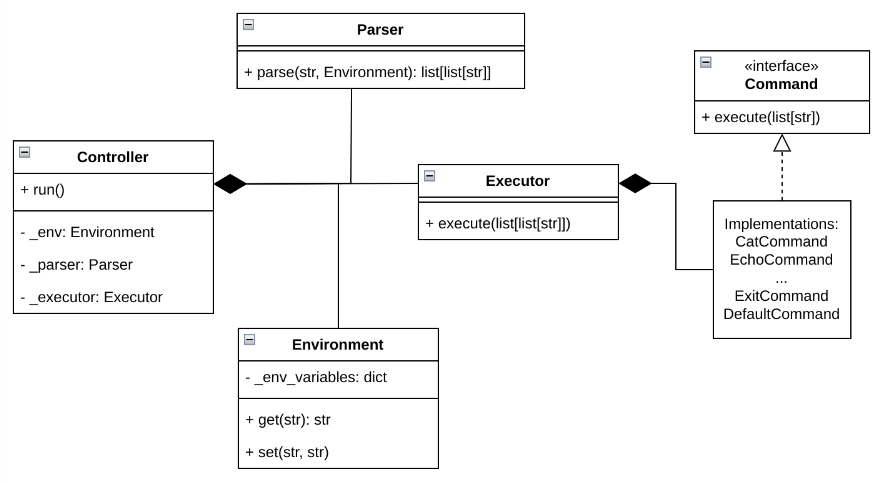
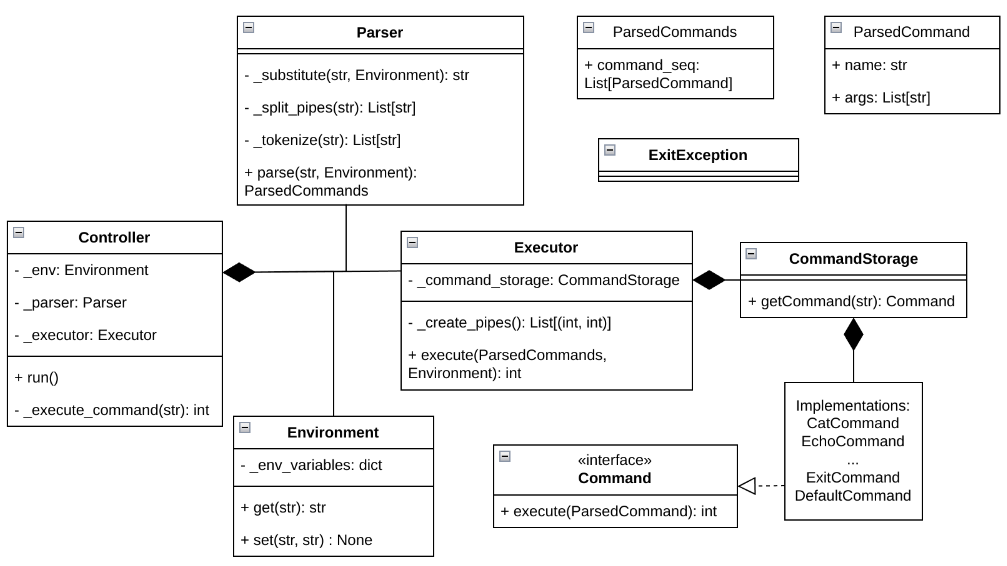
Fix architecture

Changed region(s): [[0.0, 0.0, 1.0, 0.9938]]

diff --git a/docs/architecture.md b/docs/architecture.md
@@ -2,24 +2,137 @@
 
 ![Архитектура](./images/architecture.png)
 
-`Controller` управляет основным циклом интерпретатора. Он запускает процесс обработки ввода, вызывает парсинг команд и их выполнение.
 
-`Parser` разбирает входную строку на токены с помощью `shlex`, учитывая:
+### **Controller**
 
-- Кавычки (одинарные/двойные) для группировки аргументов.
+-   **Точка входа**:
+    
+    -   `run()`: Бесконечный цикл:
+        
+        1.  Чтение ввода пользователя.
+            
+        2.  **Парсинг**  через  `Parser.parse()`.
+            
+        3.  **Исполнение**  через  `Executor.execute()`.
+            
+    -   **Завершение**: При получении команды  `exit`  → прерывание цикла.
+        
 
-- Подстановку переменных окружения через `$` (например, `$FILE` заменяется на значение из `Environment`).
+----------
 
-- Пайплайны (`|`), разделяя команды на последовательные этапы.
+### **Parser**
 
-- Результат парсинга — список списков строк, где каждый список строк соответствует команде и ее аргументам (например, `[[ "echo", "arg1" ], [ "wc" ]]` для пайплайна).
+-   **Этапы парсинга**:
 
-`Executor` получает отпарсенные команды и выполняет их:
+    1. **Подстановка переменных до токенизации**:
+            
+        -   Замена  `$VAR`  на значение из  `Environment.get("VAR")`  (например,  `$FILE`  →  `example.txt`).
 
-- Для встроенных команд (`cat`, `echo`, `wc`, `pwd`, `exit`) используются реализации интерфейса `Command`.
+    1.  **Разделение на подкоманды**  по  `|`  (например,  `cat $FILE | wc`  →  `["cat $FILE", "wc"]`).
 
-- Для внешних команд (`DefaultCommand`) создается отдельный процесс через `subprocess`.
+    2.  **Обработка каждой подкоманды**:
+                
+        -   Токенизация через  `shlex.split()`
 
-- Для пайплайнов организует передачу вывода предыдущей команды на вход следующей (через системные каналы).
 
-Environment хранит переменные (например, `FILE=example.txt`).
+    -   **Результат**:  `ParsedCommands`, где каждый `ParsedCommand` — команда с аргументами.
+
+
+----------
+
+### **Environment**
+
+-   **Хранение**:
+    
+    -   Словарь  `_env_variables`  для пар вида  `VAR=value`.
+        
+-   **Модификация**:
+    
+    -   Команды вида  `VAR=value`  → вызов  `set("VAR", "value")`.
+        
+    -   Переменные доступны для подстановки в последующих командах.
+        
+
+----------
+
+### **Executor**
+
+-   **Создание команд**:
+    
+    -   **Встроенные команды**  (cat, echo, wc, pwd, exit и другие):
+        
+        -   `CommandStorage` возвращает объекты классов, реализующих  `Command`  (например,  `EchoCommand(args)`).
+            
+    -   **Внешние команды**:
+        
+        -   `DefaultCommand`: создается отдельный процесс через subprocess.
+            
+-   **Пайплайны**:
+    
+    -   **Связь команд**:  `stdout`  предыдущей команды →  `stdin`  следующей (через  `subprocess.PIPE`).
+        
+    -   **Коды возврата**: Сохраняются для последней команды.
+        
+-   **Аргументы vs входной поток**:
+    
+    -   **Аргументы**: Параметры, переданные в команде (например,  `cat file.txt`  →  `file.txt`).
+        
+    -   **Входной поток**: Данные, переданные через пайп (например,  `echo 123 | wc`  →  `wc`  читает  `123`  из  `stdin`).
+
+----------
+
+### **Ключевые детали**
+
+-   **Объектное представление**: Результат парсинга — `ParsedCommands`, состоящая из списка `ParsedCommand` - названий команд и их аргументов.
+    
+-   **Внешние процессы**:
+    
+    -   `DefaultCommand`  запускает процесс "как есть" (например,  `git status`  → напрямую через ОС).
+        
+-   **Обработка ошибок**:
+    
+    -   Несуществующие файлы → вывод сообщения в  `stderr`.
+        
+    -   Некорректный синтаксис → ошибка парсинга.
+        
+-   **Завершение работы**:
+    
+    -   При получении `ExitException` в контроллере завершение работы интерпретатора.
+
+----------
+
+### **Процесс работы системы.**
+
+**В цикле:**
+
+1. **Controller**  считывает введенную пользовтелем команду и запускает обработку.
+    
+2.  **Парсер**  разбирает строку:
+    
+    -   Заменяет переменные (`$VAR`  → их значения).
+        
+    -   Разделяет команды.
+
+    -   Разбивает на аргументы с помощью библиотеки `shlex` 
+        
+3.  **Controller**  передает команду  **Executor**.
+    
+4.  **Executor**  выполняет команду:
+
+    - Создает необходимые пайпы.
+
+    - Для каждой команды из последовательности:
+
+        - С помощью `_command_storage.get_command()` получает обработчик, реализующий интерфейс `Command`
+
+        - У этого обработчика вызывается метод `execute`
+        
+            -   Если это встроенная команда (например,  `echo`) → вызывает соответствующий обработчик.
+
+            - Если это `exit`  →  выкидывается исключение `ExitException`, которое ловит `Controller` и завершает программу.
+                
+            -   Если это внешняя команда (например,  `git`) → запускает ее как отдельный процесс.
+        
+        - Результат метода `execute` - код возврата.
+    
+![Поток исполнения](./images/execution_flow.png)
